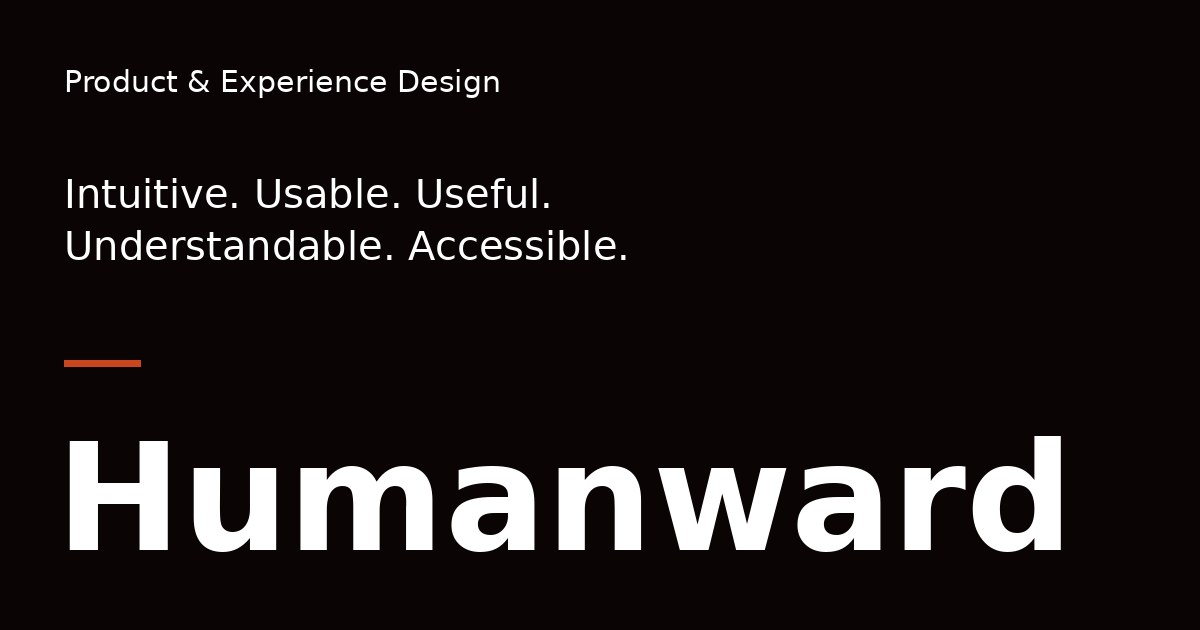
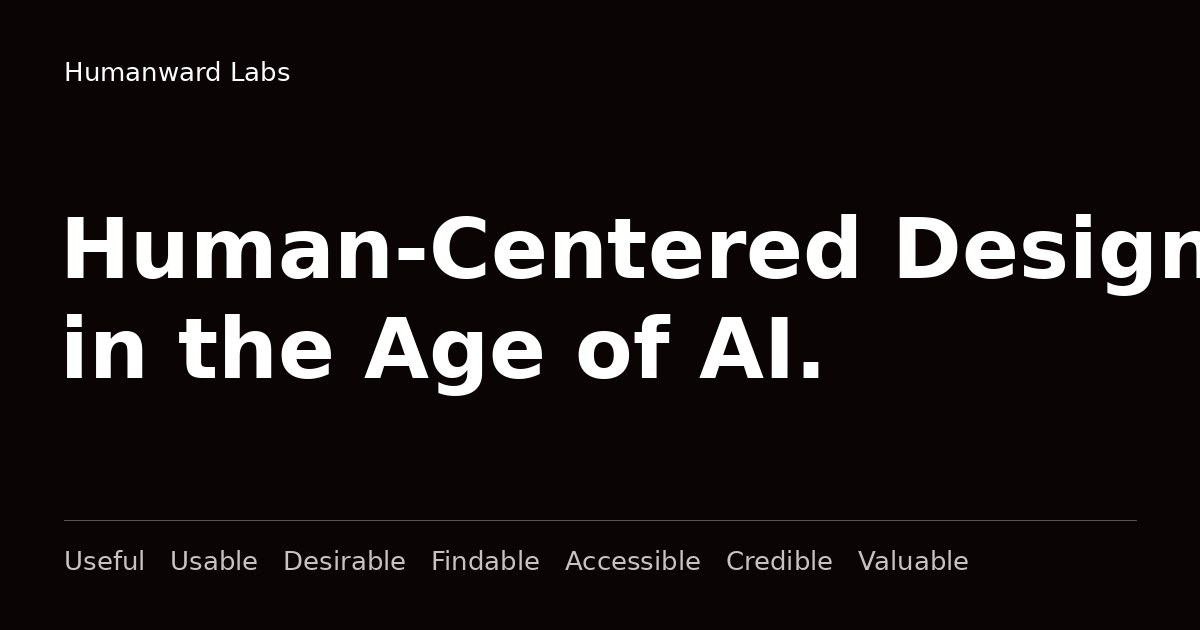
Single-screen editorial layout: headline, Let's talk, seven qualities
Claude-Session: https://claude.ai/code/session_01RzJ9dXNkNc4sDN6Nv4SAnW

diff --git a/public/index.html b/public/index.html
@@ -3,14 +3,14 @@
 <head>
 <meta charset="utf-8">
 <meta name="viewport" content="width=device-width, initial-scale=1">
-<title>Humanward Labs | Product &amp; Experience Design Studio, Richmond VA</title>
-<meta name="description" content="Humanward Labs: product and experience design, built around the people who use it. Richmond, VA.">
+<title>Humanward Labs | Human-Centered Design in the Age of AI</title>
+<meta name="description" content="Humanward Labs. Human-centered design in the age of AI. Useful, usable, desirable, findable, accessible, credible, valuable.">
 <meta name="theme-color" content="#0A0504">
 <link rel="canonical" href="https://humanwardlabs.com/">
 <meta property="og:type" content="website">
 <meta property="og:url" content="https://humanwardlabs.com/">
 <meta property="og:title" content="Humanward Labs">
-<meta property="og:description" content="Product and experience design, built around the people who use it.">
+<meta property="og:description" content="Human-centered design in the age of AI.">
 <meta property="og:image" content="https://humanwardlabs.com/assets/og.jpg">
 <meta name="twitter:card" content="summary_large_image">
 <link rel="icon" href="/favicon.svg" type="image/svg+xml">
@@ -90,6 +90,17 @@ form{display:grid;gap:18px;margin-top:28px}
 @keyframes wordIn{to{opacity:.32;transform:none}}
 @keyframes wordCycle{0%{opacity:.32}5%,17%{opacity:1}24%,100%{opacity:.32}}
 @media (max-width:860px){.words{justify-self:start;text-align:left;font-size:clamp(34px,10vw,56px)}}
+.page{position:relative;height:100vh;height:100svh;min-height:520px;overflow:hidden;background:#0A0504;color:#FFF;font-family:'Host Grotesk','Helvetica Neue',Arial,sans-serif;display:grid;grid-template-rows:auto 1fr auto;padding:clamp(20px,3vw,40px) clamp(20px,4.2vw,72px)}
+#main{display:flex !important;flex-direction:column;justify-content:center;gap:clamp(24px,4vh,48px)}
+.head{order:0;white-space:normal;margin:0;font-weight:500;font-size:min(8.6vw,14.5vh);line-height:.92;letter-spacing:-.055em;max-width:12em}
+.ln{display:block;overflow:hidden;padding-bottom:.08em;margin-bottom:-.08em}
+.ln>span{display:block;transform:translateY(105%);animation:up 1.4s var(--d) cubic-bezier(.16,.84,.2,1) forwards}
+.talk{align-self:flex-start;font-size:clamp(24px,2.6vw,40px);font-weight:400;letter-spacing:-.03em;text-decoration:none;padding:6px 0;background-image:linear-gradient(#FFF,#FFF);background-size:100% 2px;background-position:0 100%;background-repeat:no-repeat;transition:background-size .45s cubic-bezier(.65,0,.35,1)}
+.talk:hover{background-size:0 2px;background-position:100% 100%}
+.honey{list-style:none;margin:0;padding:clamp(14px,2.2vh,22px) 0 0;border-top:1px solid rgba(255,255,255,.22);display:flex;flex-wrap:wrap;justify-content:space-between;gap:6px 24px;font-size:clamp(16px,1.6vw,26px);font-weight:400;letter-spacing:-.02em}
+.honey li{opacity:0;animation:hIn 1s calc(1.3s + var(--i) * 110ms) ease forwards,hCycle 14s calc(3.5s + var(--i) * 2s) ease-in-out infinite}
+@keyframes hIn{to{opacity:.4}}
+@keyframes hCycle{0%{opacity:.4}4%,13%{opacity:1}18%,100%{opacity:.4}}
 .skip{position:absolute;left:16px;top:-100px;z-index:10;background:#FFF;color:#0A0504;padding:12px 18px;border-radius:8px;font:500 16px 'Host Grotesk',Arial,sans-serif;text-decoration:none}
 .skip:focus{top:16px}
 #main{display:contents}
@@ -118,32 +129,28 @@ h1{order:3}
 </head>
 <body>
 <a class="skip" href="#start">Skip to content</a>
-<div class="page" id="top" style="position:relative;min-height:100vh;min-height:100svh;overflow:hidden;background:#0A0504;color:#FFFFFF;font-family:'Host Grotesk','Helvetica Neue',Arial,sans-serif;display:flex;flex-direction:column;padding:24px clamp(20px,4.2vw,72px) 0">
-  <header class="rise" style="animation-delay:150ms">
+<div class="page" id="top">
+  <header class="top rise" style="animation-delay:100ms">
     <a class="brand" href="/" aria-label="Humanward Labs home"><b>Humanward</b><small>Labs</small></a>
-    <p class="meta"><span>Product &amp; Experience Design</span><span>Richmond, VA</span></p>
   </header>
 
   <main id="main">
-  <h1 class="depth" id="start" tabindex="-1">
-    <span class="sr">Humanward Labs</span>
-    <span class="mark" aria-hidden="true"><span class="mark-in"><span>Humanward</span><span>Labs</span></span></span>
-  </h1>
-  <div class="mid">
-    <div class="intro rise depth" style="animation-delay:1500ms">
-      <p>Product and experience design, built around the people who use it.</p>
-      <a class="pill" href="mailto:info@humanwardlabs.com" aria-haspopup="dialog">Start a project</a>
-    </div>
-    <ul class="words depth" aria-label="Design principles">
-      <li style="--i:0">Intuitive</li>
-      <li style="--i:1">Usable</li>
-      <li style="--i:2">Useful</li>
-      <li style="--i:3">Understandable</li>
-      <li style="--i:4">Accessible</li>
-    </ul>
-  </div>
+    <h1 class="head depth" id="start" tabindex="-1">
+      <span class="ln"><span style="--d:300ms">Human-Centered Design</span></span>
+      <span class="ln"><span style="--d:450ms">in the Age of AI.</span></span>
+    </h1>
+    <a class="talk rise" href="mailto:info@humanwardlabs.com" aria-haspopup="dialog" style="animation-delay:1100ms">Let&rsquo;s talk.</a>
   </main>
 
+  <ul class="honey" aria-label="What great experiences are">
+    <li style="--i:0">Useful</li>
+    <li style="--i:1">Usable</li>
+    <li style="--i:2">Desirable</li>
+    <li style="--i:3">Findable</li>
+    <li style="--i:4">Accessible</li>
+    <li style="--i:5">Credible</li>
+    <li style="--i:6">Valuable</li>
+  </ul>
 </div>
 
 <dialog id="contact" aria-labelledby="contact-title">
@@ -151,7 +158,7 @@ h1{order:3}
     <button class="close" type="button" aria-label="Close" data-close>
       <svg width="18" height="18" viewBox="0 0 18 18" aria-hidden="true"><path d="M3 3l12 12M15 3L3 15" stroke="#FFF" stroke-width="1.6" stroke-linecap="round"/></svg>
     </button>
-    <h2 id="contact-title">Start a project</h2>
+    <h2 id="contact-title">Let&rsquo;s talk.</h2>
     <p class="lede">Tell me a little about your project.</p>
     <form id="contact-form" novalidate>
       <div class="row">
